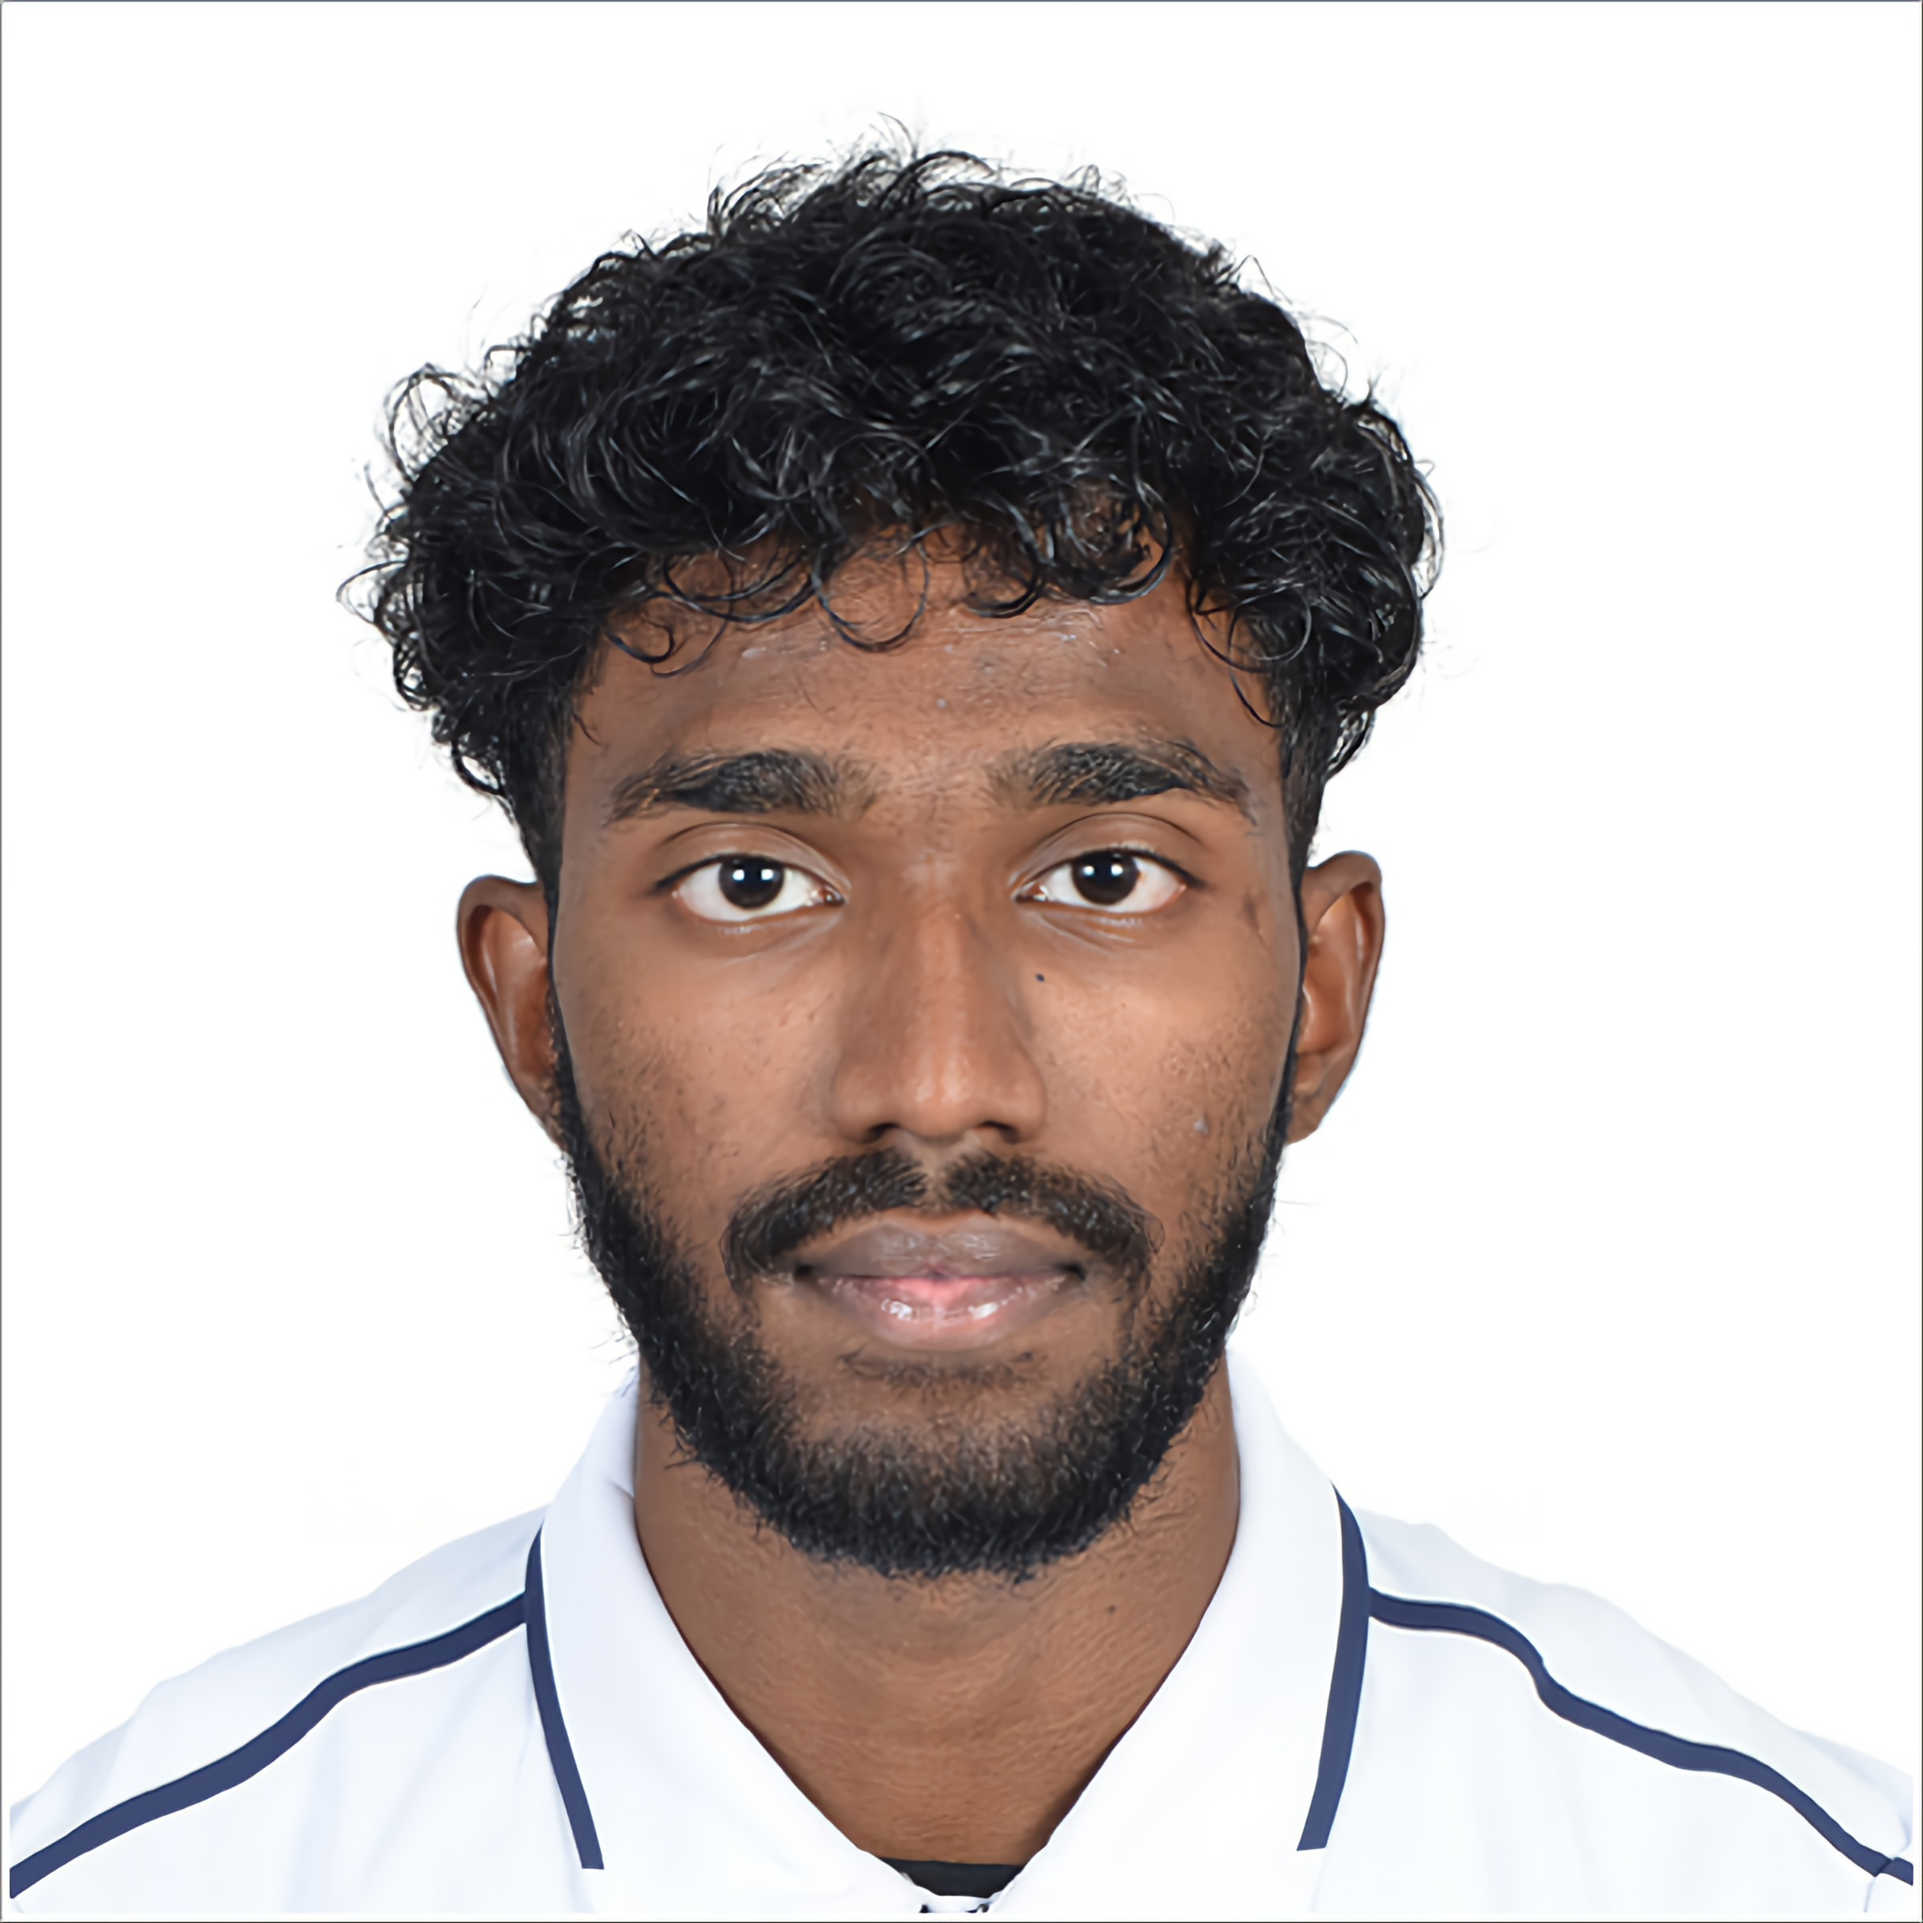
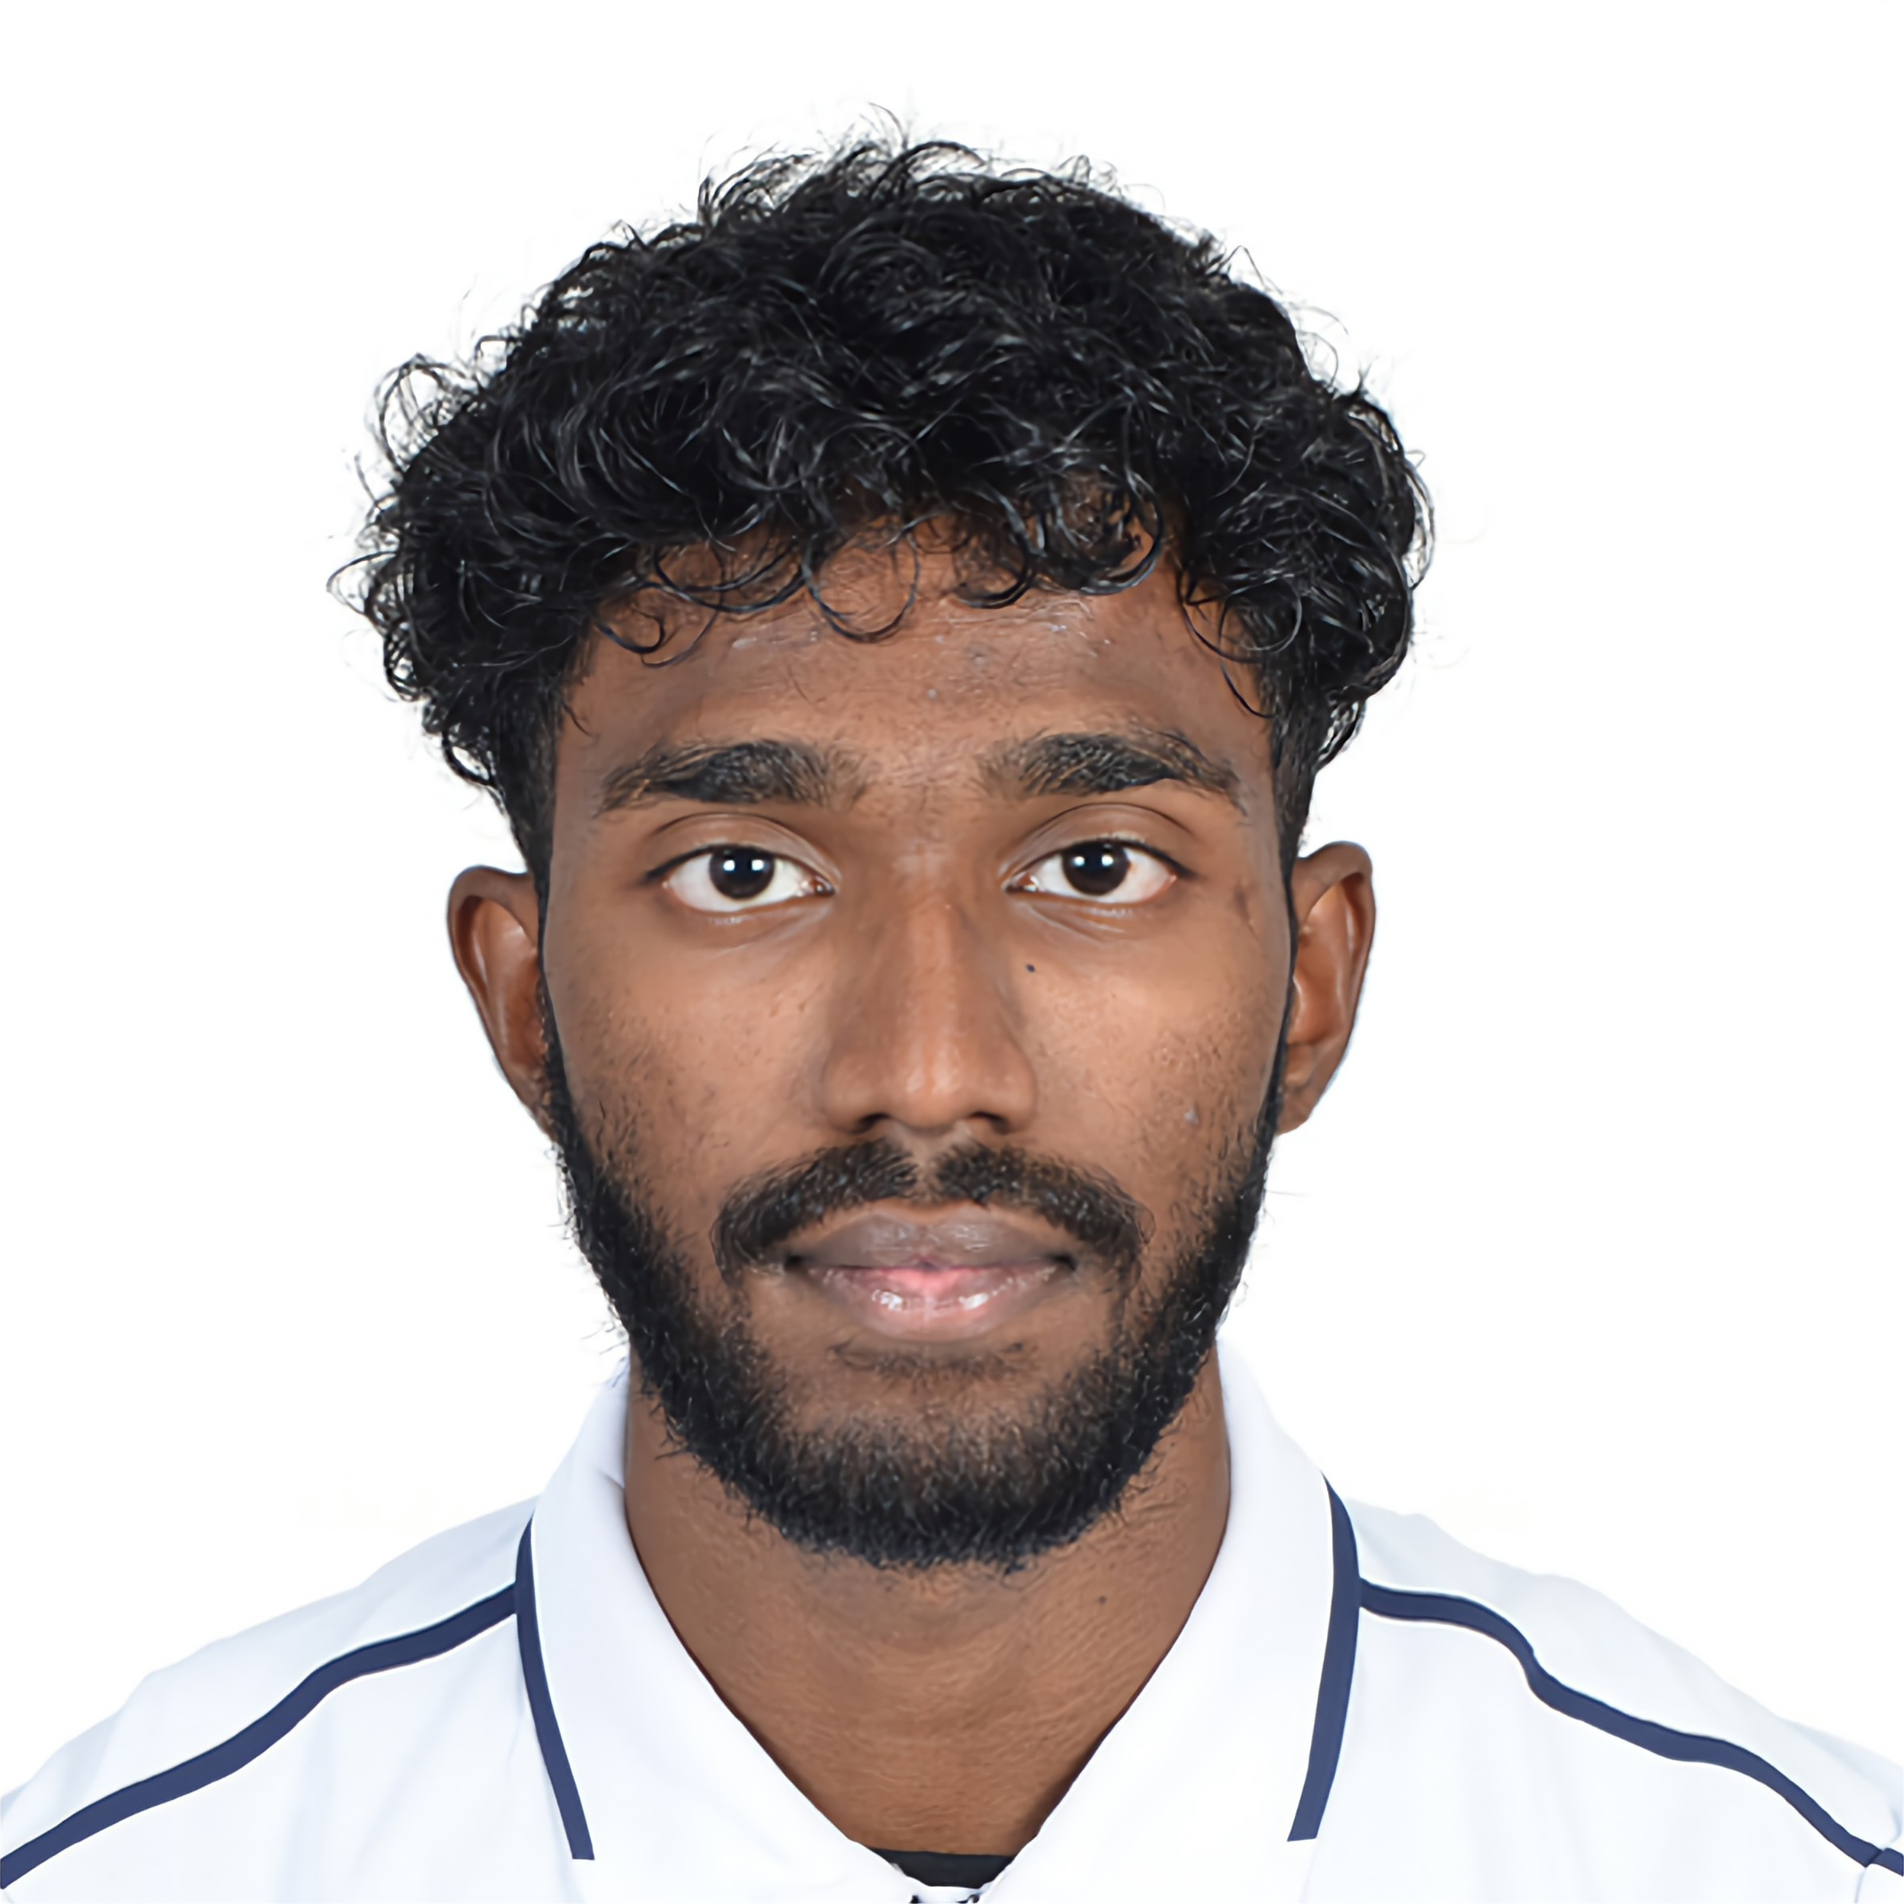
Refine profile photo border, tech bento code length & hover circle, and update Experience & Leadership to match CV

diff --git a/src/components/features/TechBentoGrid.tsx b/src/components/features/TechBentoGrid.tsx
@@ -49,7 +49,7 @@ const BentoTileCard: React.FC<{ tile: BentoTile; isFrench: boolean }> = ({ tile,
       onTouchMove={handleTouchMove}
       onMouseLeave={handleLeave}
       onTouchEnd={handleLeave}
-      className={`relative ${tile.colSpan} h-36 sm:h-40 border border-slate-800/80 bg-[#0A0D14] overflow-hidden select-none rounded-none cursor-crosshair`}
+      className={`relative ${tile.colSpan} h-36 sm:h-40 border border-slate-800/80 bg-[#0A0D14] overflow-hidden select-none rounded-none cursor-default`}
       style={{ touchAction: 'pan-y' }}
     >
       {/* 1. SURFACE LAYER (CENTERED & PROMINENT) */}
@@ -62,13 +62,13 @@ const BentoTileCard: React.FC<{ tile: BentoTile; isFrench: boolean }> = ({ tile,
         </h3>
       </div>
 
-      {/* 2. ILLUMINATED CODE LAYER (MASKED BY 168PX SPOTLIGHT) */}
+      {/* 2. ILLUMINATED CODE LAYER (MASKED BY 152PX SPOTLIGHT: 10% SMALLER, NO PLUS) */}
       <div
         className="absolute inset-0 p-3.5 sm:p-4 z-20 flex flex-col justify-center bg-[#070A0F] font-mono text-xs pointer-events-none transition-opacity duration-150"
         style={{
           opacity: pos.active ? 1 : 0,
-          WebkitMaskImage: `radial-gradient(circle 84px at ${pos.x}px ${pos.y}px, black 74px, transparent 84px)`,
-          maskImage: `radial-gradient(circle 84px at ${pos.x}px ${pos.y}px, black 74px, transparent 84px)`,
+          WebkitMaskImage: `radial-gradient(circle 76px at ${pos.x}px ${pos.y}px, black 66px, transparent 76px)`,
+          maskImage: `radial-gradient(circle 76px at ${pos.x}px ${pos.y}px, black 66px, transparent 76px)`,
         }}
       >
         <div className="text-[11px] leading-snug text-slate-200">
@@ -76,15 +76,15 @@ const BentoTileCard: React.FC<{ tile: BentoTile; isFrench: boolean }> = ({ tile,
         </div>
       </div>
 
-      {/* 3. LIGHT CIRCLE CIRCUMFERENCE (168PX DIAMETER: 20% SMALLER) */}
+      {/* 3. LIGHT CIRCLE CIRCUMFERENCE (152PX DIAMETER: 10% SMALLER) */}
       {pos.active && (
         <div
           className="absolute z-30 pointer-events-none -translate-x-1/2 -translate-y-1/2 rounded-full border border-blue-500/80 shadow-[0_0_15px_rgba(0,82,255,0.45)] transition-opacity duration-100"
           style={{
             left: `${pos.x}px`,
             top: `${pos.y}px`,
-            width: '168px',
-            height: '168px',
+            width: '152px',
+            height: '152px',
           }}
         />
       )}
@@ -108,11 +108,43 @@ export const TechBentoGrid: React.FC = () => {
       tagFr: 'React 18 // Moteur Vite',
       signature: '// 60 FPS REACTIVE',
       codeSnippet: (
-        <div className="space-y-0.5">
-          <div><span className="text-[#38BDF8]">export const</span> <span className="text-[#F59E0B]">Engine</span> = () =&gt; {'{'}</div>
-          <div className="pl-3"><span className="text-[#38BDF8]">const</span> {'{'} data {'}'} = <span className="text-[#60A5FA]">useStream</span>();</div>
-          <div className="pl-3"><span className="text-[#38BDF8]">return</span> &lt;<span className="text-[#38BDF8]">Canvas</span> frame={'{'}data{'}'} fps={<span className="text-[#F43F5E]">60</span>} /&gt;;</div>
-          <div>{'}'};</div>
+        <div className="space-y-1 font-mono text-[11px] whitespace-nowrap leading-relaxed overflow-hidden">
+          <div>
+            <span className="text-[#38BDF8]">export const</span>{' '}
+            <span className="text-[#F59E0B]">TelemetryCanvas</span>
+            <span className="text-slate-400">:</span>{' '}
+            <span className="text-[#A78BFA]">React.FC&lt;StreamProps&gt;</span>{' '}
+            <span className="text-slate-400">=</span>{' '}
+            <span className="text-slate-300">({'{'} endpoint, hz = </span>
+            <span className="text-[#F43F5E]">60</span>
+            <span className="text-slate-300"> {'}'}) =&gt; {'{'}</span>
+          </div>
+          <div className="pl-3">
+            <span className="text-[#38BDF8]">const</span>{' '}
+            <span className="text-slate-300">{'{'} stream, ping {'}'}</span>{' '}
+            <span className="text-slate-400">=</span>{' '}
+            <span className="text-[#60A5FA]">useBinaryStream</span>
+            <span className="text-slate-300">&lt;</span>
+            <span className="text-[#A78BFA]">MarketFeed</span>
+            <span className="text-slate-300">&gt;(endpoint, {'{'} autoSync: </span>
+            <span className="text-[#F43F5E]">true</span>
+            <span className="text-slate-300"> {'}'});</span>
+          </div>
+          <div className="pl-3">
+            <span className="text-[#38BDF8]">return</span>{' '}
+            <span className="text-slate-300">&lt;</span>
+            <span className="text-[#38BDF8]">RenderEngine</span>{' '}
+            <span className="text-slate-300">buffer=</span>
+            <span className="text-slate-300">{'{'}stream.data{'}'}</span>{' '}
+            <span className="text-slate-300">fps=</span>
+            <span className="text-slate-300">{'{'}hz{'}'}</span>{' '}
+            <span className="text-slate-300">latency=</span>
+            <span className="text-slate-300">{'{'}ping{'}'}</span>{' '}
+            <span className="text-slate-300">/&gt;;</span>
+          </div>
+          <div>
+            <span className="text-slate-300">{'}'};</span>
+          </div>
         </div>
       ),
     },
@@ -178,11 +210,37 @@ export const TechBentoGrid: React.FC = () => {
       tagFr: 'CFC Électronique // C99',
       signature: '// 115.2 KBPS DMA',
       codeSnippet: (
-        <div className="space-y-0.5">
-          <div><span className="text-[#38BDF8]">void</span> <span className="text-[#F59E0B]">UART_Bridge_Init</span>(<span className="text-[#A78BFA]">void</span>) {'{'}</div>
-          <div className="pl-3">USART2-&gt;BRR = <span className="text-[#F43F5E]">0x0116</span>; <span className="text-slate-500">// 115.2k</span></div>
-          <div className="pl-3">USART2-&gt;CR1 |= <span className="text-[#60A5FA]">USART_CR1_UE</span> | <span className="text-[#60A5FA]">USART_CR1_TE</span>;</div>
-          <div>{'}'}</div>
+        <div className="space-y-1 font-mono text-[11px] whitespace-nowrap leading-relaxed overflow-hidden">
+          <div>
+            <span className="text-[#38BDF8]">void</span>{' '}
+            <span className="text-[#F59E0B]">UART_Bridge_Init</span>
+            <span className="text-slate-300">(</span>
+            <span className="text-[#A78BFA]">USART_TypeDef</span>{' '}
+            <span className="text-slate-300">*USARTx, </span>
+            <span className="text-[#A78BFA]">uint32_t</span>{' '}
+            <span className="text-slate-300">baudrate, </span>
+            <span className="text-[#A78BFA]">uint8_t</span>{' '}
+            <span className="text-slate-300">dma_channel) {'{'}</span>
+          </div>
+          <div className="pl-3">
+            <span className="text-slate-300">USARTx-&gt;BRR = </span>
+            <span className="text-[#60A5FA]">SystemCoreClock</span>
+            <span className="text-slate-300"> / baudrate; </span>
+            <span className="text-slate-500">// Configure hardware baudrate divider</span>
+          </div>
+          <div className="pl-3">
+            <span className="text-slate-300">USARTx-&gt;CR1 |= </span>
+            <span className="text-[#60A5FA]">USART_CR1_UE</span>
+            <span className="text-slate-300"> | </span>
+            <span className="text-[#60A5FA]">USART_CR1_TE</span>
+            <span className="text-slate-300"> | </span>
+            <span className="text-[#60A5FA]">USART_CR1_RE</span>
+            <span className="text-slate-300">; </span>
+            <span className="text-slate-500">// Enable TX/RX transceiver circuits</span>
+          </div>
+          <div>
+            <span className="text-slate-300">{'}'}</span>
+          </div>
         </div>
       ),
     },

diff --git a/src/pages/About.tsx b/src/pages/About.tsx
@@ -38,16 +38,19 @@ export const About: React.FC<AboutProps> = ({ id = 'about' }) => {
 
   const experience = [
     {
+      period: isFrench ? '2023 - Présent' : '2023 - Present',
       role: t('about.experience.appapp.role'),
       org: t('about.experience.appapp.org'),
       description: t('about.experience.appapp.description'),
     },
     {
+      period: isFrench ? 'Déc. 2023 - Présent' : 'Dec. 2023 - Present',
       role: t('about.experience.glgb.role'),
       org: t('about.experience.glgb.org'),
       description: t('about.experience.glgb.description'),
     },
     {
+      period: isFrench ? 'Déc. 2021 - Présent' : 'Dec. 2021 - Present',
       role: t('about.experience.ficf.role'),
       org: t('about.experience.ficf.org'),
       description: t('about.experience.ficf.description'),
@@ -111,12 +114,17 @@ export const About: React.FC<AboutProps> = ({ id = 'about' }) => {
               key={index}
               className="py-4 grid grid-cols-1 md:grid-cols-12 gap-2 md:gap-6 items-baseline"
             >
-              <div className="md:col-span-4 font-mono text-xs sm:text-sm font-semibold text-fintech-primary">
-                {item.role} {t('about.at')} {item.org}
+              <div className="md:col-span-3 font-mono text-xs sm:text-sm text-slate-500 tabular-nums">
+                {item.period}
               </div>
-              <div className="md:col-span-8">
-                <p className="text-xs sm:text-sm text-slate-600 leading-relaxed">
-                  {item.description}
+              <div className="md:col-span-9 space-y-1">
+                <div className="flex flex-col sm:flex-row sm:items-baseline sm:justify-between gap-1">
+                  <h4 className="text-sm sm:text-base font-semibold text-fintech-primary">
+                    {item.role}
+                  </h4>
+                </div>
+                <p className="text-xs sm:text-sm text-slate-600 leading-relaxed pt-0.5">
+                  <span className="font-semibold text-slate-800">{item.org}</span> — {item.description}
                 </p>
               </div>
             </div>

diff --git a/src/pages/Home.tsx b/src/pages/Home.tsx
@@ -105,7 +105,7 @@ export const Home: React.FC = () => {
           {/* Right Column: Sharp Profile Picture Frame */}
           <div className="lg:col-span-5 flex justify-center lg:justify-end">
             <div className="relative w-full max-w-md border border-slate-200 bg-white p-3 shadow-xl shadow-slate-900/5 rounded-none group">
-              <div className="overflow-hidden bg-slate-100">
+              <div className="overflow-hidden bg-white">
                 <img
                   src="/profile.jpg"
                   alt="Steve Benjamin"
